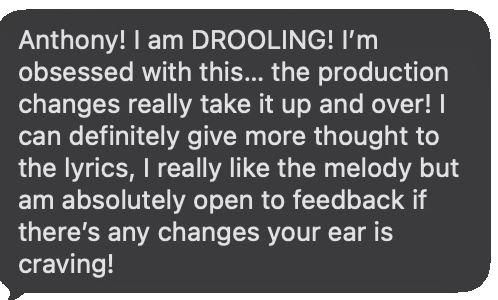
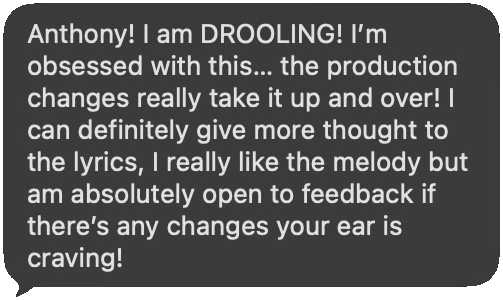
Type: Gill Sans with Cabin fallback site-wide; hero: numbers headline, ComFest photo, client text

diff --git a/app/components/HomeClient.tsx b/app/components/HomeClient.tsx
@@ -8,7 +8,7 @@ import HeroListen from "./HeroListen";
 import FooterLine from "./FooterLine";
 import { projectIndex } from "../../data/projects.data";
 import { STATS } from "../../data/stats";
-import { testimonials } from "../../data/testimonials.data";
+import { HERO_TESTIMONIAL } from "../../data/testimonials.data";
 
 type SectionId = "hero" | "services" | "proof";
 
@@ -70,11 +70,14 @@ export default function HomeClient({
 
         <div className="relative -mt-28 px-6 text-center md:mt-0 md:px-0">
           <LogoArchitectOfSound />
-          <p className="mx-auto mt-4 max-w-[24ch] text-[17px] leading-[1.45] text-[#F2F2F2] sm:text-[18px]">
-            The drummer for your show, session, or record.
+          <p className="mt-4 text-[26px] leading-[1.2] text-[#F2F2F2] sm:text-[28px]">
+            {Math.floor(STATS.performances / 10) * 10}+ shows. {Math.floor(STATS.placements / 10) * 10}+ records.
           </p>
-          <p className="mx-auto mt-3 max-w-[34ch] text-[13px] leading-[1.6] text-[#9A9A9A]">
-            ~{STATS.performances} shows · ~{STATS.placements} records · Columbus Pride · ComFest · Blue Knights · Bluecoats
+          <p className="mx-auto mt-3 max-w-[30ch] text-[15px] leading-[1.55] text-[#9A9A9A] sm:text-[16px]">
+            Drummer and producer for live shows, sessions, and records. Columbus, OH.
+          </p>
+          <p className="mx-auto mt-3 max-w-[34ch] text-[12px] leading-[1.6] text-[#5C5C5C]">
+            Columbus Pride · ComFest · Blue Knights · Bluecoats · Rhythm X
           </p>
           <div className="mt-7 flex items-center justify-center gap-6">
             <button type="button" onClick={onOpenBooking} className="epk-cta">
@@ -82,7 +85,20 @@ export default function HomeClient({
             </button>
             <HeroListen />
           </div>
-          <p className="mt-5 text-[12px] text-[#5C5C5C]">Columbus, OH · fly dates nationwide</p>
+          <figure className="mx-auto mt-10 flex max-w-[360px] flex-col items-center">
+            <Image
+              src={HERO_TESTIMONIAL.image}
+              alt={HERO_TESTIMONIAL.alt}
+              width={HERO_TESTIMONIAL.width}
+              height={HERO_TESTIMONIAL.height}
+              loading="lazy"
+              sizes="(max-width: 360px) 100vw, 360px"
+              className="h-auto w-full select-none"
+            />
+            <figcaption className="mt-3 text-[12px] text-[#5C5C5C]">
+              {HERO_TESTIMONIAL.caption}
+            </figcaption>
+          </figure>
         </div>
       </section>
 
@@ -125,22 +141,6 @@ export default function HomeClient({
         <p className="mt-2 text-[15px] leading-[1.6] text-[#9A9A9A] sm:text-[16px]">
           Columbus Pride · ComFest · Short North Stage · Shadowbox Live · Louis Pettinelli Entertainment · Bluecoats · Rhythm X · Blue Knights
         </p>
-        {testimonials[0] && (
-          <figure className="mt-10 mx-auto max-w-[360px]">
-            <Image
-              src={testimonials[0].image}
-              alt={testimonials[0].alt}
-              width={testimonials[0].width}
-              height={testimonials[0].height}
-              loading="lazy"
-              sizes="(max-width: 360px) 100vw, 360px"
-              className="h-auto w-full mx-auto select-none"
-            />
-            <figcaption className="mt-3 text-[12px] text-[#5C5C5C] text-center">
-              {testimonials[0].caption}
-            </figcaption>
-          </figure>
-        )}
         <p className="mt-8 flex flex-wrap gap-x-6 gap-y-2 text-[15px] text-[#F2F2F2]">
           <Link href="/placements" className="hover:text-[#9A9A9A] transition-colors">
             Placements →

diff --git a/data/testimonials.data.ts b/data/testimonials.data.ts
@@ -11,19 +11,28 @@ export interface Testimonial {
   caption: string;
 }
 
+export const HERO_TESTIMONIAL: Testimonial = {
+  id: "track-1",
+  image: "/reviews/review-3.png",
+  width: 512,
+  height: 172,
+  alt: "You're wonderful!!! I'm so grateful for your collaboration and talent - I could not be more excited about this track!!",
+  caption: "Artist · via text",
+};
+
 export const testimonials: Testimonial[] = [
   {
     id: "live-2026",
     image: "/reviews/review-7.png",
-    width: 514,
-    height: 168,
-    alt: "You're real one for sure. I was very impressed with your drumming man. Fr I'm not gassing you up. You were solid for sure.",
+    width: 502,
+    height: 364,
+    alt: "Oh yeah imma be there on Saturday to hang for sure! We can talk about linking up again and check the calendars then. You're real one for sure. I was very impressed with your drumming man. Fr I'm not gassing you up. You were solid for sure.",
     caption: "Artist · after a live show · via text",
   },
   {
     id: "production-1",
     image: "/reviews/review-4.png",
-    width: 498,
+    width: 503,
     height: 300,
     alt: "Anthony! I am DROOLING! I'm obsessed with this… the production changes really take it up and over! I can definitely give more thought to the lyrics, I really like the melody but am absolutely open to feedback if there's any changes your ear is craving!",
     caption: "Artist · production client · via text",

diff --git a/app/layout.tsx b/app/layout.tsx
@@ -1,17 +1,16 @@
 // build-ts: 2026-05-02T23:23:45.831760
 import type { Metadata, Viewport } from "next";
-import { Fraunces } from "next/font/google";
+import { Cabin } from "next/font/google";
 import "./globals.css";
 import JsonLd from "./components/JsonLd";
 import TransitionProvider from "./components/TransitionProvider";
 import { Analytics } from "@vercel/analytics/react";
 
-const fraunces = Fraunces({
+const cabin = Cabin({
   subsets: ["latin"],
-  weight: ["300"],
-  style: ["normal", "italic"],
+  weight: ["400", "500", "600"],
   display: "swap",
-  variable: "--font-serif",
+  variable: "--font-cabin",
 });
 
 const siteUrl = process.env.NEXT_PUBLIC_SITE_URL || "https://www.anthonydakemusic.com";
@@ -72,7 +71,7 @@ export default function RootLayout({
   children: React.ReactNode;
 }>) {
   return (
-    <html lang="en" className={`bg-white ${fraunces.variable}`}>
+    <html lang="en" className={`bg-white ${cabin.variable}`}>
       <head>
         <link rel="me" href="https://www.tiktok.com/@anthony_dake" />
         <link rel="me" href="https://www.youtube.com/@anthony_dake" />

diff --git a/app/globals.css b/app/globals.css
@@ -15,6 +15,11 @@ body {
   --text-secondary: #9A9A9A;
   --text-tertiary: #5C5C5C;
   --hairline: rgba(255, 255, 255, 0.08);
+  --font-sans: "Gill Sans Nova", "Gill Sans", "Gill Sans MT", var(--font-cabin), ui-sans-serif, system-ui, sans-serif;
+}
+
+@theme {
+  --font-sans: "Gill Sans Nova", "Gill Sans", "Gill Sans MT", var(--font-cabin), ui-sans-serif, system-ui, sans-serif;
 }
 
 * {
@@ -28,6 +33,7 @@ body {
 body {
   background: var(--bg);
   color: var(--text-primary);
+  font-family: var(--font-sans);
 }
 
 a {
@@ -50,10 +56,12 @@ a {
   -webkit-text-fill-color: transparent;
 }
 
-/* Fraunces 300 — hero name + page titles only. Display sizes. */
-.font-serif-display {
-  font-family: var(--font-serif), Georgia, serif;
+/* Display — Gill Sans Light where the visitor has it, Cabin 400 otherwise.
+   Hero name + page titles only. */
+.font-display {
+  font-family: var(--font-sans);
   font-weight: 300;
+  letter-spacing: -0.015em;
 }
 
 /* Primary pill — the one CTA style. White pill, black text, no shadow, no

diff --git a/app/components/LogoArchitectOfSound.tsx b/app/components/LogoArchitectOfSound.tsx
@@ -1,14 +1,14 @@
 "use client";
 
-// Hero name lockup. Fraunces 300 with the one allowed gradient per page
-// (`.grad`). The hero portrait (when shown) is rendered by the caller
+// Hero name lockup. Gill Sans Light (Cabin fallback) with the one allowed
+// gradient per page (`.grad`). The hero photo is rendered by the caller
 // directly above this component.
 export default function LogoArchitectOfSound() {
   return (
     <div className="relative inline-flex w-full max-w-[640px] lg:max-w-[820px] xl:max-w-[960px] flex-col items-center justify-center">
       <div className="flex flex-col items-center justify-center text-center">
-        <h1 className="grad font-serif-display text-[36px] sm:text-[48px] md:text-[58px] tracking-[-0.02em] leading-tight">
-          anthony dake
+        <h1 className="grad font-display text-[46px] leading-[1.05] tracking-[-0.015em] sm:text-[60px] md:text-[64px]">
+          Anthony Dake
         </h1>
       </div>
     </div>

diff --git a/app/about/page.client.tsx b/app/about/page.client.tsx
@@ -16,7 +16,7 @@ export default function AboutClient() {
         className="bg-black px-4 pt-24 pb-16 text-[#F2F2F2] sm:px-6 md:px-8"
       >
         <article className="mx-auto max-w-[640px]">
-          <h1 className="grad font-serif-display mb-10 text-center text-[32px] leading-tight tracking-[-0.02em] text-balance sm:text-[44px]">
+          <h1 className="grad font-display mb-10 text-center text-[36px] leading-tight tracking-[-0.015em] text-balance sm:text-[48px]">
             From small-town church drummer to world-class performer
           </h1>
 

diff --git a/app/practice/page.client.tsx b/app/practice/page.client.tsx
@@ -69,7 +69,7 @@ export default function PracticePageClient() {
         className="mx-auto max-w-[640px] px-6 pt-24 pb-16 sm:px-8"
       >
         <header className="mb-10">
-          <h1 className="grad font-serif-display text-[40px] leading-tight tracking-[-0.02em] sm:text-[52px]">
+          <h1 className="grad font-display text-[44px] leading-tight tracking-[-0.015em] sm:text-[58px]">
             Practice
           </h1>
           <p className="mt-2 text-[15px] text-[#9A9A9A]">

diff --git a/app/epk/page.client.tsx b/app/epk/page.client.tsx
@@ -32,7 +32,7 @@ export default function EPKClient() {
         className="mx-auto max-w-[760px] bg-black px-6 pt-24 pb-16 text-[#F2F2F2] sm:px-8"
       >
         <header className="mb-10 text-center">
-          <h1 className="grad font-serif-display text-[40px] leading-tight tracking-[-0.02em] sm:text-[52px]">
+          <h1 className="grad font-display text-[44px] leading-tight tracking-[-0.015em] sm:text-[58px]">
             Press kit
           </h1>
         </header>

diff --git a/app/performance/page.client.tsx b/app/performance/page.client.tsx
@@ -73,7 +73,7 @@ export default function PerformanceClient() {
         </p>
 
         <header className="mb-10">
-          <h1 className="grad font-serif-display text-[40px] leading-tight tracking-[-0.02em] sm:text-[52px]">
+          <h1 className="grad font-display text-[44px] leading-tight tracking-[-0.015em] sm:text-[58px]">
             Performance
           </h1>
           <p className="mt-2 text-[15px] text-[#9A9A9A]">

diff --git a/app/placements/page.client.tsx b/app/placements/page.client.tsx
@@ -65,7 +65,7 @@ export default function PlacementsClient() {
         </p>
 
         <header className="mb-10">
-          <h1 className="grad font-serif-display text-[40px] leading-tight tracking-[-0.02em] sm:text-[52px]">
+          <h1 className="grad font-display text-[44px] leading-tight tracking-[-0.015em] sm:text-[58px]">
             Placements
           </h1>
           <p className="mt-2 text-[15px] text-[#9A9A9A]">

diff --git a/CLAUDE.md b/CLAUDE.md
@@ -14,7 +14,7 @@ Next.js App Router. Every public route uses the `page.tsx` (server, exports `met
 
 ### Pages (routes under `app/`)
 
-- `/` — Home. Three stacked sections (`hero → services → proof`) rendered by `HomeClient.tsx` as a normal scrolling page. Inline header lives here, not `SiteHeader`. Hero is an **evidence hero**: the ComFest stage photo (`/photos/epk-comfest-2024.jpg`, `priority`, `aspect-[4/5] object-cover object-[center_20%]`, full-bleed on mobile / `md:rounded-2xl` left column on desktop), Fraunces name, one promise line ("The drummer for your show, session, or record."), one proof line (`~shows · ~records · stages`), and a row with the `Book →` pill + `<HeroListen />`. `/portrait.jpg` is no longer referenced anywhere (kept on disk).
+- `/` — Home. Three stacked sections (`hero → services → proof`) rendered by `HomeClient.tsx` as a normal scrolling page. Inline header lives here, not `SiteHeader`. Hero is an **evidence hero**: the ComFest stage photo (`/photos/epk-comfest-2024.jpg`, `priority`, `aspect-[4/5] object-cover object-[center_20%]`, full-bleed on mobile / `md:rounded-2xl` left column on desktop), `Anthony Dake` in `.font-display grad` (Gill Sans Light / Cabin fallback), a numbers headline (`400+ shows. 50+ records.` — rounded down from `STATS` to the nearest ten), a descriptor line ("Drummer and producer for live shows, sessions, and records. Columbus, OH."), a `#5C5C5C` names line (`Columbus Pride · ComFest · Blue Knights · Bluecoats · Rhythm X`), the actions row (`Book →` pill + `<HeroListen />`), and then the `HERO_TESTIMONIAL` bubble (first thing on scroll on mobile, under the actions in the right column on desktop). `/portrait.jpg` is no longer referenced anywhere (kept on disk).
 - `/about` — Bio/story: church drummer → DCI/WGI → conservatory → rebuild. The current headshot (`/portrait-about.jpg`, `rounded-2xl`, caption `Columbus, OH`) renders at the top; the childhood first-kit photo (`/anthony-dake-drums.jpg`, `rounded-2xl`, caption `First kit · Topeka, KS`) is lazy-loaded inline inside the story, immediately after the "I grew up in Topeka, Kansas" paragraph. Three live-performance photos (`/photos/about-blue-knights-2018.jpg`, `.../about-duality-2022.jpg`, `.../about-main-street-2022.jpg`) are lazy-loaded inline at later beats in the story (after the "Blue Knights in 2018", "day one", and "The receipts:" paragraphs respectively) using the same `my-8 … rounded-2xl` figure pattern. Testimonials component mounted below the article (renders nothing until `data/testimonials.data.ts` is populated).
 - `/epk` — Press kit. `One-sheet (PDF) →` pill points at `/Anthony_Dake_One-Sheet.pdf` (`download` + `target="_blank"`). YouTube demo reel (no autoplay), then a three-up row of live performance photos (`EPK_PHOTOS` module-level const — ComFest, Whitehall Food Truck Festival, hybrid rig) rendered as a `grid grid-cols-3` of `aspect-[4/5] rounded-2xl` tiles with `#5C5C5C` captions, `Listen` heading + `<AudioShowcase />`, `Contact` heading + email + `Columbus, OH · fly dates nationwide` + `785.608.2604` as a `tel:` link. No social icons — those live in the site-wide footer line. `Anthony_Dake_Resume.pdf` is kept on disk but no longer linked from anywhere.
 - `/placements` — Record credits index (artwork grid). Data from `data/projects.data.ts`.
@@ -33,17 +33,17 @@ Next.js App Router. Every public route uses the `page.tsx` (server, exports `met
 
 ### Key Components (`app/components/`)
 
-- `HomeClient.tsx` — The three stacked sections of the home page: **hero** (ComFest stage photo + name + promise line + proof line + `Book →` + `<HeroListen />` + location sub-line; mobile = full-bleed photo with a `.hero-fade` gradient over its bottom 45 %, desktop = two-column `minmax(0,5fr)_minmax(0,6fr)` grid with the photo left-rounded and the text block centered right), **services** (two bulleted lines with `<strong>` leads for Drummer / Producer + `Send a brief →` text link), **proof** (distinct-artists line + stages/orgs line + testimonial bubble + three text links to the deeper pages — the hero already carries the numbers, so the Proof section does not repeat them). Normal scrolling, no fades.
+- `HomeClient.tsx` — The three stacked sections of the home page: **hero** (ComFest stage photo + `Anthony Dake` + numbers headline + descriptor + names line + `Book →` + `<HeroListen />` + `HERO_TESTIMONIAL` bubble; mobile = full-bleed photo with a `.hero-fade` gradient over its bottom 45 %, desktop = two-column `minmax(0,5fr)_minmax(0,6fr)` grid with the photo left-rounded and the text block centered right), **services** (two bulleted lines with `<strong>` leads for Drummer / Producer + `Send a brief →` text link), **proof** (distinct-artists line + stages/orgs line + three text links to the deeper pages — no testimonial bubble here; it lives in the hero now). Normal scrolling, no fades.
 - `HeroListen.tsx` — Inline text-link control in the hero actions row that plays `AUDIO_CLIPS[0]` (`back-and-forth`, 0:27) without leaving the page. Play-triangle (or pause-bars) + `Listen · 0:27` (becomes `Playing · 0:27` while playing). One `<audio preload="none">`, `ended` resets, unmount pauses, respects `prefers-reduced-motion`. A 1 px `#F2F2F2` hairline under the label grows 0 → 100 % with `currentTime / duration`, hidden when idle.
 - `AudioShowcase.tsx` — Credits-style vertical list on `/epk`. Each row is a 36 px circular play/pause icon + `title · artist` in sentence case + `0:MM` duration, separated by hairline `border-white/[0.08]` top/bottom rules. A 1 px `#F2F2F2` progress hairline sits on the row's bottom edge and grows from 0 → 100 % while that row plays; no ring, no gradient, no glow. One `<audio preload="none">` per clip; only one plays at a time; unmount pauses everything; respects `prefers-reduced-motion`. Renders `null` while `AUDIO_CLIPS` is empty.
 - `BookingModal.tsx` — Booking inquiry dialog. Focus trap, Esc-to-close, honeypot, body-scroll lock, auto-close on success. Sentence-case labels, one primary pill (`Send inquiry →`), no glow.
 - `FooterLine.tsx` — Site-wide single-row footer mounted on every page: `Columbus, OH · Email · YouTube · TikTok · Press kit`. `#5C5C5C` 12 px, hairline `border-t`, `py-10`. This is where the social links live now (they were removed from the hero and `/epk`).
 - `SiteHeader.tsx` — Shared header for every subpage. Symmetric 3-column grid (Placements/Performance · HomeMark · About + Book CTA). Uppercase nav at `tracking-[0.18em]` — the one allowed uppercase surface outside of year headers. Mobile hamburger overlay. Owns its own `BookingModal` state and listens for the `open-booking` event.
 - `HomeMark.tsx` — Inline SVG of the AD serif monogram (Source Serif 4 outlines, solid `#E5EEFF` fill; the standalone `public/mark.svg` adds a thin `#3B82F6` ring, dropped here because the header pill already draws a ring). Rendered at 25×14 inside the 44px pill. The source SVGs live in `public/mark.svg` (with ring), `public/letters.svg` (no ring, same one inlined here), `public/mark-white.svg` (monochrome fallback).
-- `LogoArchitectOfSound.tsx` — Fraunces 300 name lockup only. The hero portrait is rendered by `HomeClient.tsx` directly above this component (no `showPortrait` prop any more). The h1 inside this component holds the page's single `.grad` gradient — every other instance of the gradient on a page is a deliberate violation.
+- `LogoArchitectOfSound.tsx` — `Anthony Dake` name lockup only (Title case, `font-display` — Gill Sans Light where the visitor has it, Cabin 400 otherwise). The hero photo is rendered by `HomeClient.tsx` directly above this component (no `showPortrait` prop any more). The h1 inside this component holds the page's single `.grad` gradient — every other instance of the gradient on a page is a deliberate violation.
 - `JsonLd.tsx` — `<script type="application/ld+json">` helper.
 - `TransitionProvider.tsx` — Thin wrapper preserving the `useTransition()` API shape (`triggerTransition`, `isTransitioning`, `prefersReducedMotion`, `isMobileFallback`) so pre-existing callers compile. `triggerTransition` is now just `router.push`; the curtain overlay and the page fade were both removed. Pages render fully visible on first paint — nothing is gated on JS.
-- `Testimonials.tsx` — Renders real client texts as cleaned iMessage bubble screenshots on About. Each entry is a transparent PNG from `/public/reviews/` rendered via `next/image` (its native width/height, capped at `max-w-[380px]`, centered, `select-none`) with a `#5C5C5C` sentence-case caption line below it. The full quote text is in the image `alt`. Renders `null` while `testimonials` is empty.
+- `Testimonials.tsx` — Renders real client texts as cleaned iMessage bubble screenshots on About. Each entry is a transparent PNG from `/public/reviews/` rendered via `next/image` (its native width/height, capped at `max-w-[380px]`, centered, `select-none`) with a `#5C5C5C` sentence-case caption line below it. Reads the `testimonials` export from `data/testimonials.data.ts` (the three About entries); the home hero reads the separate `HERO_TESTIMONIAL` export instead. The full quote text is in the image `alt`. Renders `null` while `testimonials` is empty.
 
 There is **a site-wide footer line** again (`<FooterLine />`), reintroduced in the Calm pass. `TextScramble`, `CurtainOverlay`, `ColumbusTime`, `SiteFooter`, `FloatingCards`, `CustomCursor`, `LenisProvider`, `ArchiveModal`, `ScribbleLink`, `ScrambleText` are all gone.
 
@@ -52,7 +52,7 @@ There is **a site-wide footer line** again (`<FooterLine />`), reintroduced in t
 - `data/projects.data.ts` — Lightweight placements index (title/artist pairs) used by the home services section + `/placements` route.
 - `data/performance.data.ts` — Live performance credits list.
 - `data/practice.data.ts` — Practice log entries + exported `practiceEntries`, `totalSessions`, `firstSessionDate`. Current log goes through Session #7 (2026-05-18).
-- `data/testimonials.data.ts` — Array of `Testimonial { id, image, width, height, alt, caption }` entries. Each one is a real client text screenshot in `/public/reviews/` with its full quote in `alt` and a short attribution in `caption`. Populated — the first entry is also inlined in the home Proof section. The About page shows the first three.
+- `data/testimonials.data.ts` — Two exports: `HERO_TESTIMONIAL` (the single bubble inlined in the home hero — currently `review-3.png`, the "You're wonderful!!!" track quote) and `testimonials` (array shown on About — currently three entries: `review-7.png` live-show quote, `review-4.png` production quote, `review-2.png` beat quote). Each entry is a real client text screenshot in `/public/reviews/` with the full quote verbatim in `alt` and a short attribution in `caption`. The two exports are intentionally separate; no shared index.
 - `data/stats.ts` — `STATS.performances` and `STATS.placements` — approximate career totals displayed in the hero proof strip and the `Selected · N of ~total` subheader on `/placements` and `/performance`. Edit here and both the hero and index pages update together.
 - `lib/booking.ts` — `openBooking()` helper that dispatches a `window` `CustomEvent('open-booking')`. Both headers listen for it, so any component can trigger the booking modal without lifting state. See Gotcha #6.
 - `lib/projects.ts` — Project type definitions + re-export of `projects` from the generated file.
@@ -171,7 +171,7 @@ Two features render **nothing** in production when their data is empty:
 
 The home hero intentionally no longer carries a video reel (Calm pass parked it — if it comes back, gate it behind a feature flag, use clean footage, and run it at `opacity-20` or lower). `HERO_VIDEO_URL` is a dead constant; leave it `null`.
 
-**Current state:** `AUDIO_CLIPS` holds five finished clips (−14 LUFS, −1 dBTP, MP3 160 kbps, faded) on Vercel Blob under `audio/`: `back-and-forth` (Madelyn Leona), `cycles` (BittyOTW), `mr-nice-guy` (unreleased demo), `the-thought-of-you`, and `untitled-beat`. The `/epk` Listen section carries a single caption under the heading — "Drums and production on every track." — so individual rows don't need per-track role labels. `testimonials` holds three real client texts (sent with permission) rendered as the PNG bubbles in `public/reviews/`. Do not invent new placeholder content, and do not "clean up" by emptying either array unless Anthony asks.
+**Current state:** `AUDIO_CLIPS` holds five finished clips (−14 LUFS, −1 dBTP, MP3 160 kbps, faded) on Vercel Blob under `audio/`: `back-and-forth` (Madelyn Leona), `cycles` (BittyOTW), `mr-nice-guy` (unreleased demo), `the-thought-of-you`, and `untitled-beat`. The `/epk` Listen section carries a single caption under the heading — "Drums and production on every track." — so individual rows don't need per-track role labels. `HERO_TESTIMONIAL` is `review-3.png` (the "You're wonderful!!! … could not be more excited about this track!!" track quote, 512×172). `testimonials` holds three real client texts rendered as the PNG bubbles in `public/reviews/`: `review-7.png` (502×364, full live-show quote starting "Oh yeah imma be there on Saturday…"), `review-4.png` (503×300, production quote), and `review-2.png` (528×205, beat quote). All four bubbles are sent with permission. Do not invent new placeholder content, and do not "clean up" by emptying either export unless Anthony asks.
 
 ### 8. CLOSED SECTION-ID UNION
 `HomeClient`'s `initialSection` uses the type `"hero" | "services" | "proof"`. Adding a new section means updating the type and the refs in one pass.
@@ -231,7 +231,7 @@ One idea per screen. One primary CTA style. One gradient per page. Solid text, n
 
 **Color.** `#F2F2F2` primary, `#9A9A9A` meta, `#5C5C5C` tertiary / captions, `rgba(255,255,255,0.08)` hairlines. Black background. Links: `#F2F2F2` with `#9A9A9A` on hover (reverse for meta text). The blue→white gradient (`#3B82F6 → #8EC5FF → #FFFFFF`) is opt-in via `.grad` — exactly one instance per page (hero name on `/`, page title elsewhere).
 
-**Type.** Fraunces 300 (`var(--font-serif)` via `.font-serif-display`) on the hero name and page titles only. One sans for everything else at two sizes: 15–16 px body `leading-[1.6]`/`[1.75]`, 12 px meta. The only uppercase text left on the site is the header nav and the year-group micro-labels on the index pages (`text-[11px] tracking-[0.18em] text-[#5C5C5C]`). Sentence case everywhere else.
+**Type.** One family site-wide: Gill Sans with Cabin fallback. The CSS stack is `"Gill Sans Nova", "Gill Sans", "Gill Sans MT", var(--font-cabin), ui-sans-serif, system-ui, sans-serif` — macOS/iOS visitors get Gill Sans, Windows 10+ gets Gill Sans Nova, everyone else gets **Cabin** (loaded via `next/font/google` in `app/layout.tsx`, exposed as `--font-cabin`; same Johnston/Gill skeleton, OFL). The stack is wired into both `--font-sans` on `:root` and the Tailwind v4 `@theme` block in `app/globals.css`, so `body { font-family: var(--font-sans) }` and `font-sans` utilities resolve to the same list. Display sizes (hero name + page titles) use `.font-display` — `font-family: var(--font-sans); font-weight: 300; letter-spacing: -0.015em` — which picks up Gill Sans Light where the visitor has it and Cabin 400 otherwise. One `.font-display` per page, always paired with `.grad`. Body text stays at two sizes: 15–16 px `leading-[1.6]`/`[1.75]`, 12 px meta. The only uppercase text left on the site is the header nav and the year-group micro-labels on the index pages (`text-[11px] tracking-[0.18em] text-[#5C5C5C]`). Sentence case everywhere else. Gill Sans Light is thinner than Fraunces 300 was, so page-title sizes were bumped ~10 % (`text-[44px] sm:text-[58px]` on subpage titles, `text-[36px] sm:text-[48px]` on About, `text-[46px] sm:text-[60px] md:text-[64px]` on the hero name) and tracking standardized at `-0.015em`.
 
 **Buttons.** One primary: `.epk-cta` — white pill, black text, no shadow, no glow, no hover-lift, hover-only `background-color: #E6E6E6`. One secondary: a plain text link with ` →`. No bordered pills, no outlined buttons — except the header `Book →` pill, which keeps its thin border (the single exception).
 
